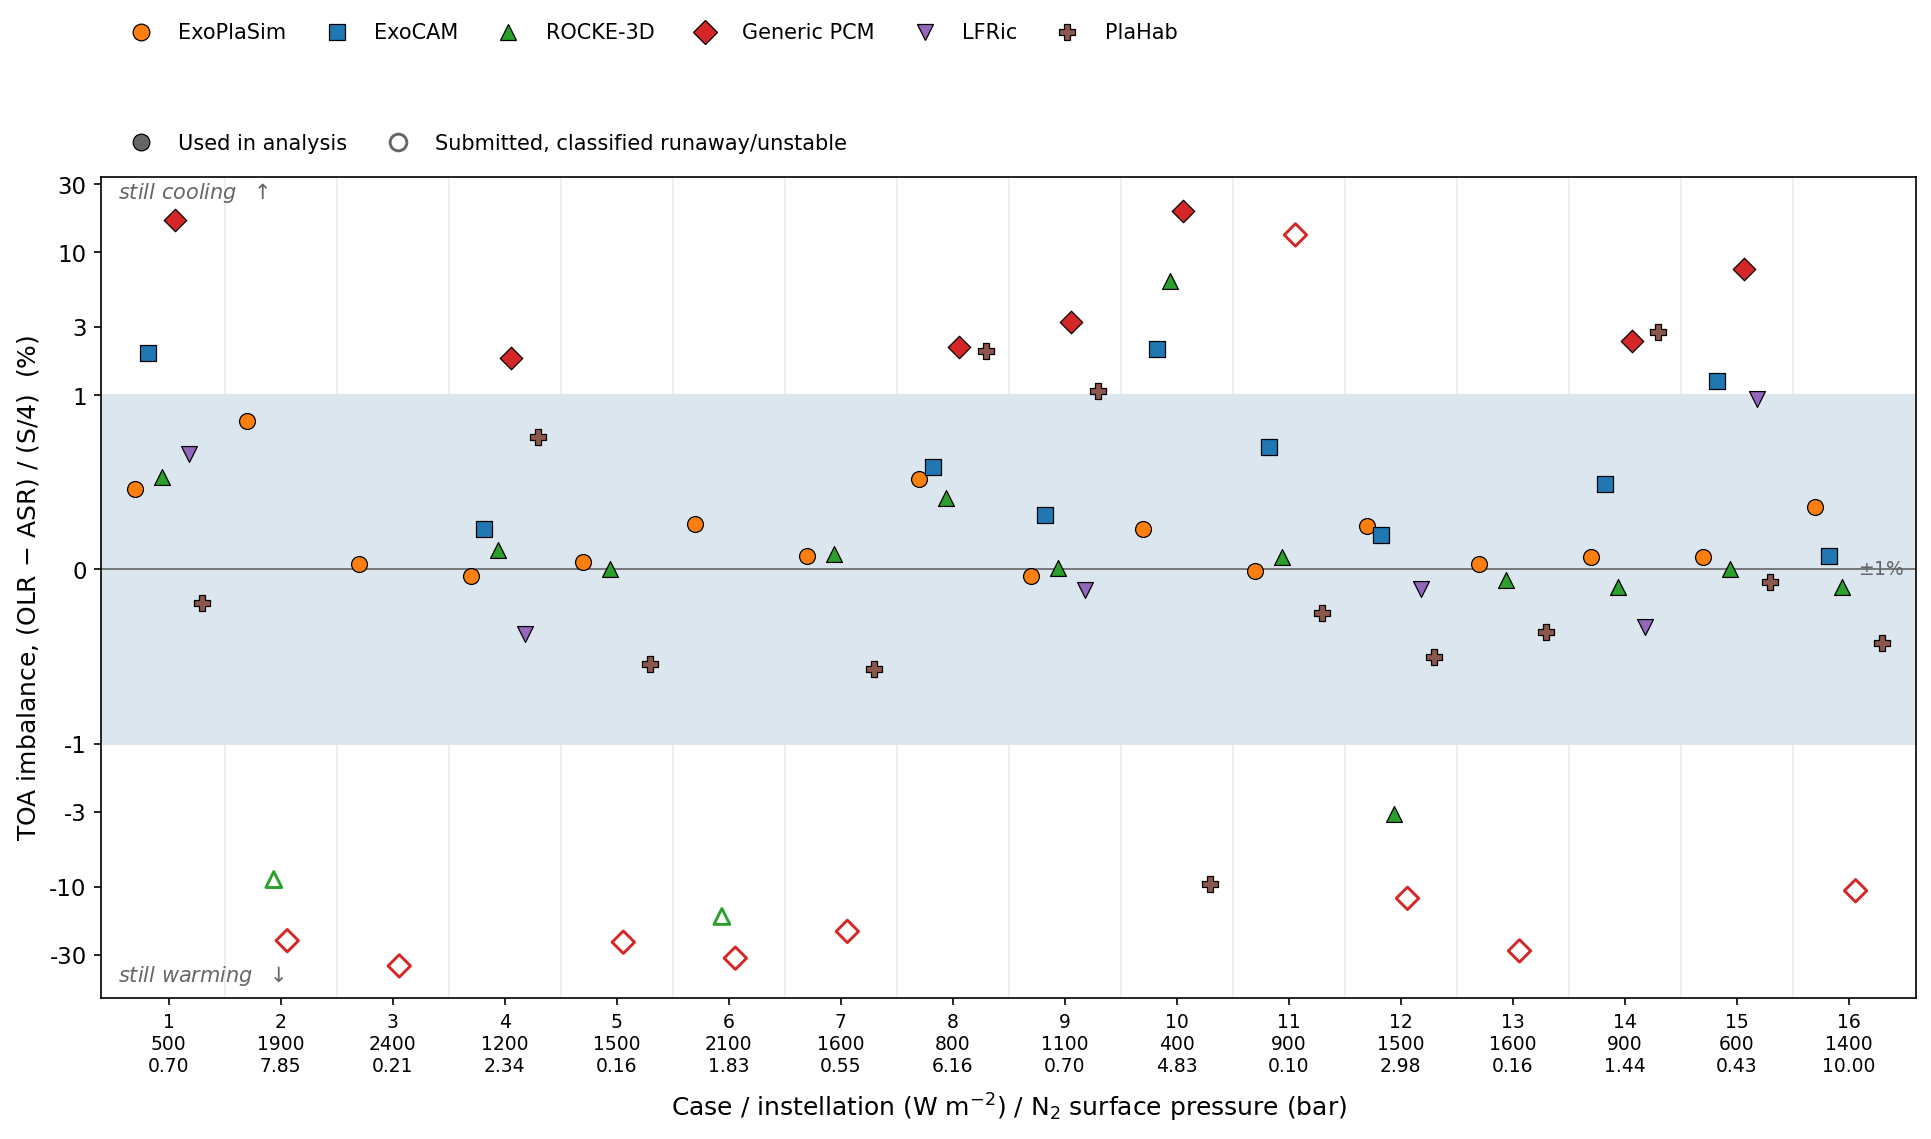
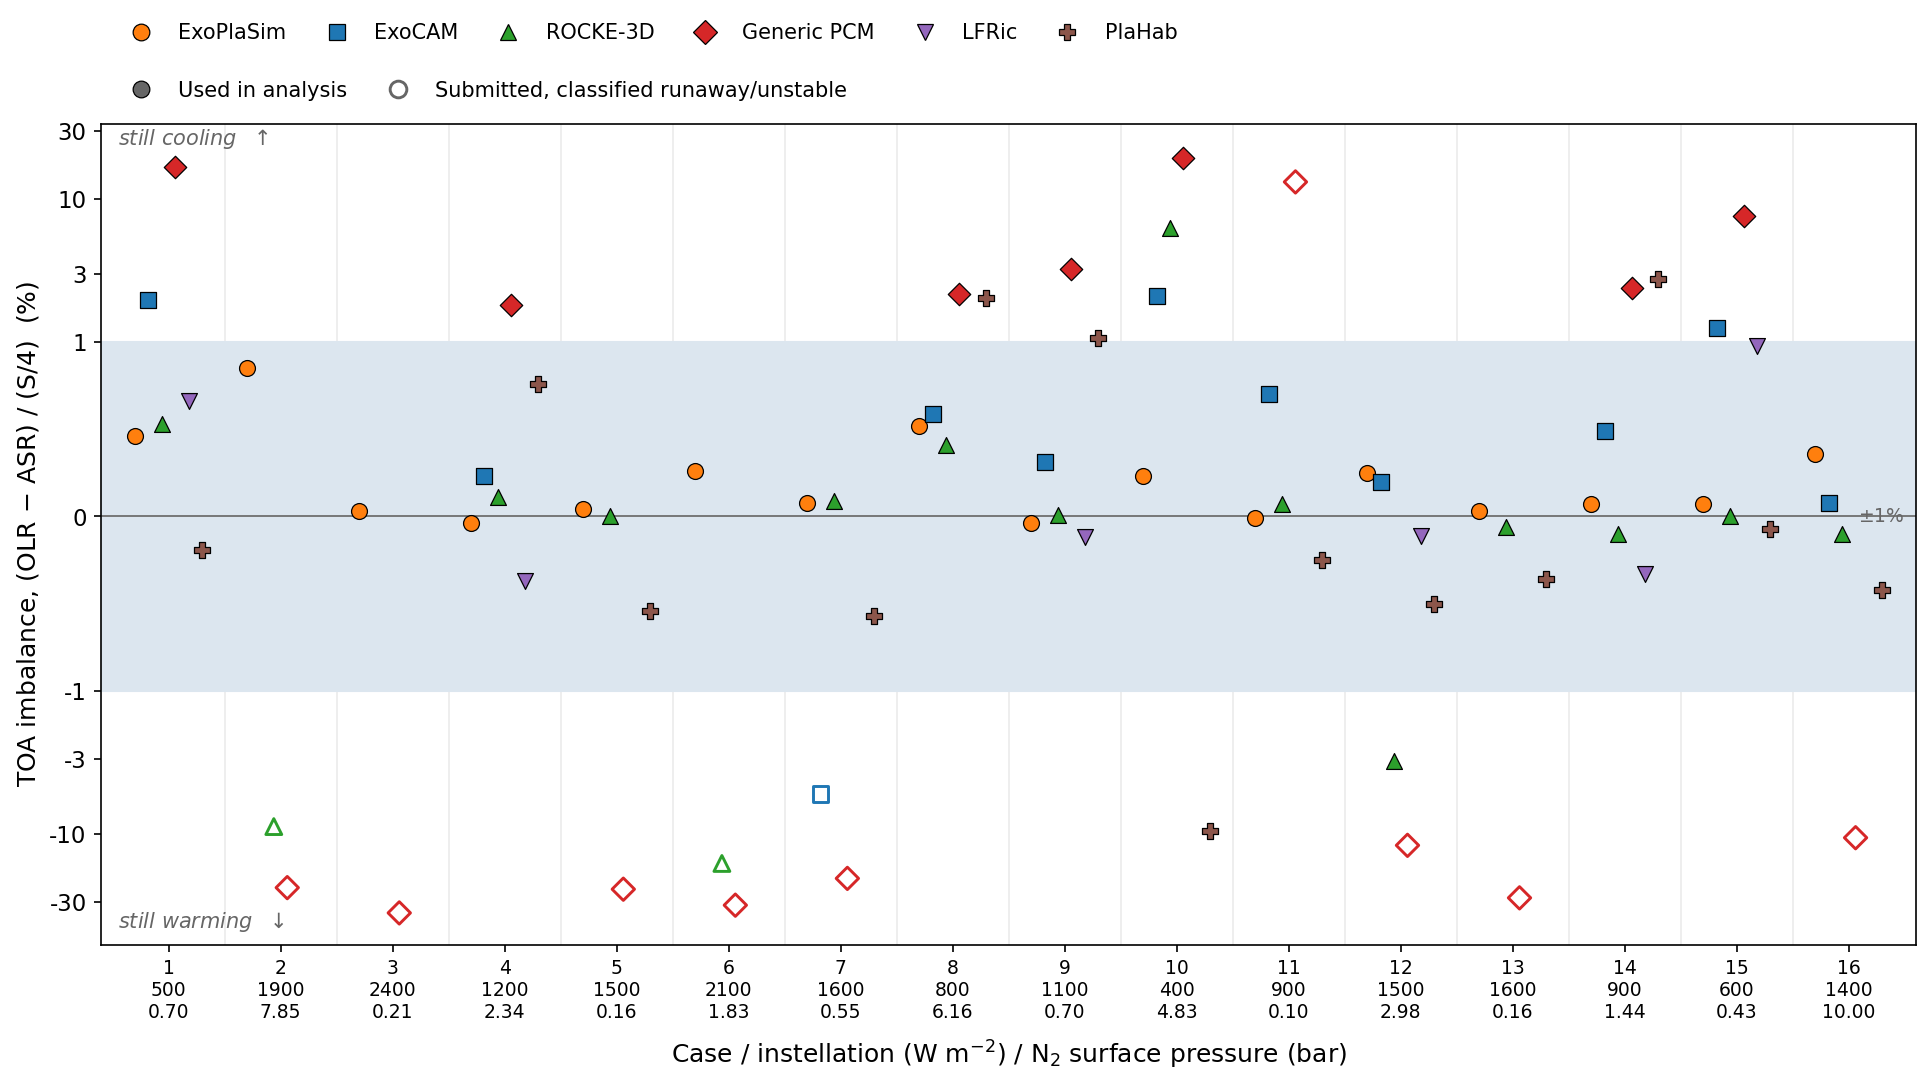
Verify ExoCAM and LFRic fluxes against primary data; add ExoCAM Case 7
The ExoCAM and LFRic values in the two new figures came from text summaries
rather than from the submitted NetCDF, unlike ExoPlaSim and ROCKE-3D. Checking
them against the primary output turns up two things.

LFRic is confirmed exactly: sw_net_toa and lw_up_toa reproduce its reported
global diagnostics to the last digit for ASR, OLR, albedo and imbalance.

ExoCAM cannot be confirmed the same way. FSNTOA, FSNTOAC, FSNTC, FSDSC, FLUTC,
SWCF and LWCF are all archived as identically zero, leaving FSNT (top of
model) as the only usable shortwave flux. Albedo from FSNT is 0.3 pp above
TOAALB on average and 0.9 pp at Case 12, and the imbalance differs by up to
1.3 W/m^2 at Cases 11 and 12. TOAALB and toaEBAL are retained as the group's
own TOA diagnostics; the choice changes no conclusion, and the ExoCAM albedo
variogram fits a zero slope either way, so the degeneracy result is robust.

Separately, exocam/samosa7.cam.h0.avg.nc holds a real simulation (TS=345.1 K,
ice free, -5.28% imbalance) that has no row in output.txt. It is a runaway in
progress, correctly excluded from the analysis, but it belongs on the energy
balance figure as an open marker and was missing. Added, which also gives
ExoCAM a visible runaway signature alongside ROCKE-3D and the Generic PCM.

diff --git a/figures/allcases/fig_energy_balance.py b/figures/allcases/fig_energy_balance.py
@@ -14,7 +14,14 @@ from matplotlib.lines import Line2D
 # value means it is gaining energy (still warming).
 #
 # OLR and ASR are the standardized SAMOSA global output quantities:
-#   ExoCAM       exocam/output.txt (OLR, toaEBAL; ASR = OLR + toaEBAL)
+#   ExoCAM       exocam/output.txt (OLR, toaEBAL; ASR = OLR + toaEBAL), except
+#                Case 7, which is absent from output.txt but present as
+#                samosa7.cam.h0.avg.nc, and is taken from the area-weighted
+#                FSNT and FLUT of that file. Note that FSNTOA and every
+#                clear-sky field are archived as identically zero in the
+#                ExoCAM files, so FSNT (top of model) is the only usable
+#                shortwave flux; it runs about 1 W/m^2 above the reported
+#                toaEBAL, which is immaterial for a case at -5.3%.
 #   ExoPlaSim    exoplasim/samosaNN.nc, area-weighted rst / rlut
 #   ROCKE-3D     rocke3d/rocke_NNq.nc, -trnf_toa_hemis[2] / srnf_toa_hemis[2]
 #   Generic PCM  genericpcm/OHT_off/case-N/samosa_gcm_output_case-N_OHT_off.dat
@@ -34,7 +41,7 @@ pres1 = np.array( [ 0.70, 7.85, 0.21, 2.34, 0.16, 1.83, 0.55, 6.16, 0.70, 4.83, 
 # Residual TOA imbalance, per cent of incident flux (nan = no data submitted)
 imbalance = {
     'ExoPlaSim':   np.array( [  0.46,   0.85,   0.03,  -0.04,   0.04,   0.26,   0.08,   0.52,  -0.04,   0.23,  -0.01,   0.25,   0.03,   0.07,   0.07,   0.36 ] ),
-    'ExoCAM':      np.array( [  1.96,    nan,    nan,   0.23,    nan,    nan,    nan,   0.59,   0.31,   2.11,   0.70,   0.20,    nan,   0.49,   1.26,   0.08 ] ),
+    'ExoCAM':      np.array( [  1.96,    nan,    nan,   0.23,    nan,    nan,  -5.28,   0.59,   0.31,   2.11,   0.70,   0.20,    nan,   0.49,   1.26,   0.08 ] ),
     'ROCKE-3D':    np.array( [  0.53,  -8.94,    nan,   0.11,   0.00, -16.21,   0.09,   0.41,   0.01,   6.32,   0.07,  -3.12,  -0.06,  -0.10,   0.00,  -0.10 ] ),
     'Generic PCM': np.array( [ 16.81, -23.95, -36.01,   1.83, -24.56, -31.78, -20.63,   2.18,   3.27,  19.66,  13.26, -12.10, -28.24,   2.41,   7.70, -10.70 ] ),
     'LFRic':       np.array( [  0.66,    nan,    nan,  -0.37,    nan,    nan,    nan,    nan,  -0.12,    nan,    nan,  -0.11,    nan,  -0.33,   0.98,    nan ] ),

diff --git a/figures/allcases/fig_interpolation_albedo.py b/figures/allcases/fig_interpolation_albedo.py
@@ -29,8 +29,17 @@ pres1 = np.array( [ 0.70, 7.85, 0.21, 2.34, 0.16, 1.83, 0.55, 6.16, 0.70, 4.83, 
 #   ExoCAM    TOAALB as reported in exocam/output.txt
 #   ExoPlaSim rsut / ( rst + rsut ) from the area-weighted TOA fluxes
 #   others    1 - ASR / ( S / 4 ), using the incident flux fixed by the protocol
-# The two independent routes agree where both are available: for ROCKE-3D Case 1
-# the reported plan_alb is 23.08% against 1 - ASR/(S/4) = 23.08%.
+# Cross-checks against the primary NetCDF, where that is possible:
+#   ROCKE-3D   reported plan_alb 23.08% vs 1 - ASR/(S/4) = 23.08% at Case 1.
+#   LFRic      sw_net_toa / lw_up_toa reproduce the .txt global diagnostics
+#              exactly, so the derived albedos here are confirmed.
+#   ExoCAM     cannot be confirmed the same way: FSNTOA and every clear-sky
+#              field are archived as identically zero, leaving FSNT (top of
+#              model) as the only usable shortwave flux. Albedo from FSNT runs
+#              0.3 pp above TOAALB on average and 0.9 pp at Case 12. TOAALB is
+#              retained here as the group's own TOA diagnostic; the choice does
+#              not affect any conclusion, and in particular the variogram fits
+#              a zero slope either way.
 plasim  = np.array( [ 40.77, 25.00, 21.85, 39.99, 31.52, 18.87, 29.82, 40.23, 33.58, 42.23, 38.32, 17.26, 31.10, 36.40, 39.34, 32.58 ] )
 exocam  = np.array( [ 26.99, runaway, runaway, 30.74, runaway, runaway, runaway, 20.33, 34.23, 31.44, 22.02, 18.13, runaway, 28.58, 20.02, 16.49 ] )
 rocke3d = np.array( [ 23.08, runaway, runaway, 31.56, 39.86, runaway, 44.31, 22.14, 37.63, 21.21, 28.72, 17.96, 40.84, 30.09, 22.26, 12.78 ] )
